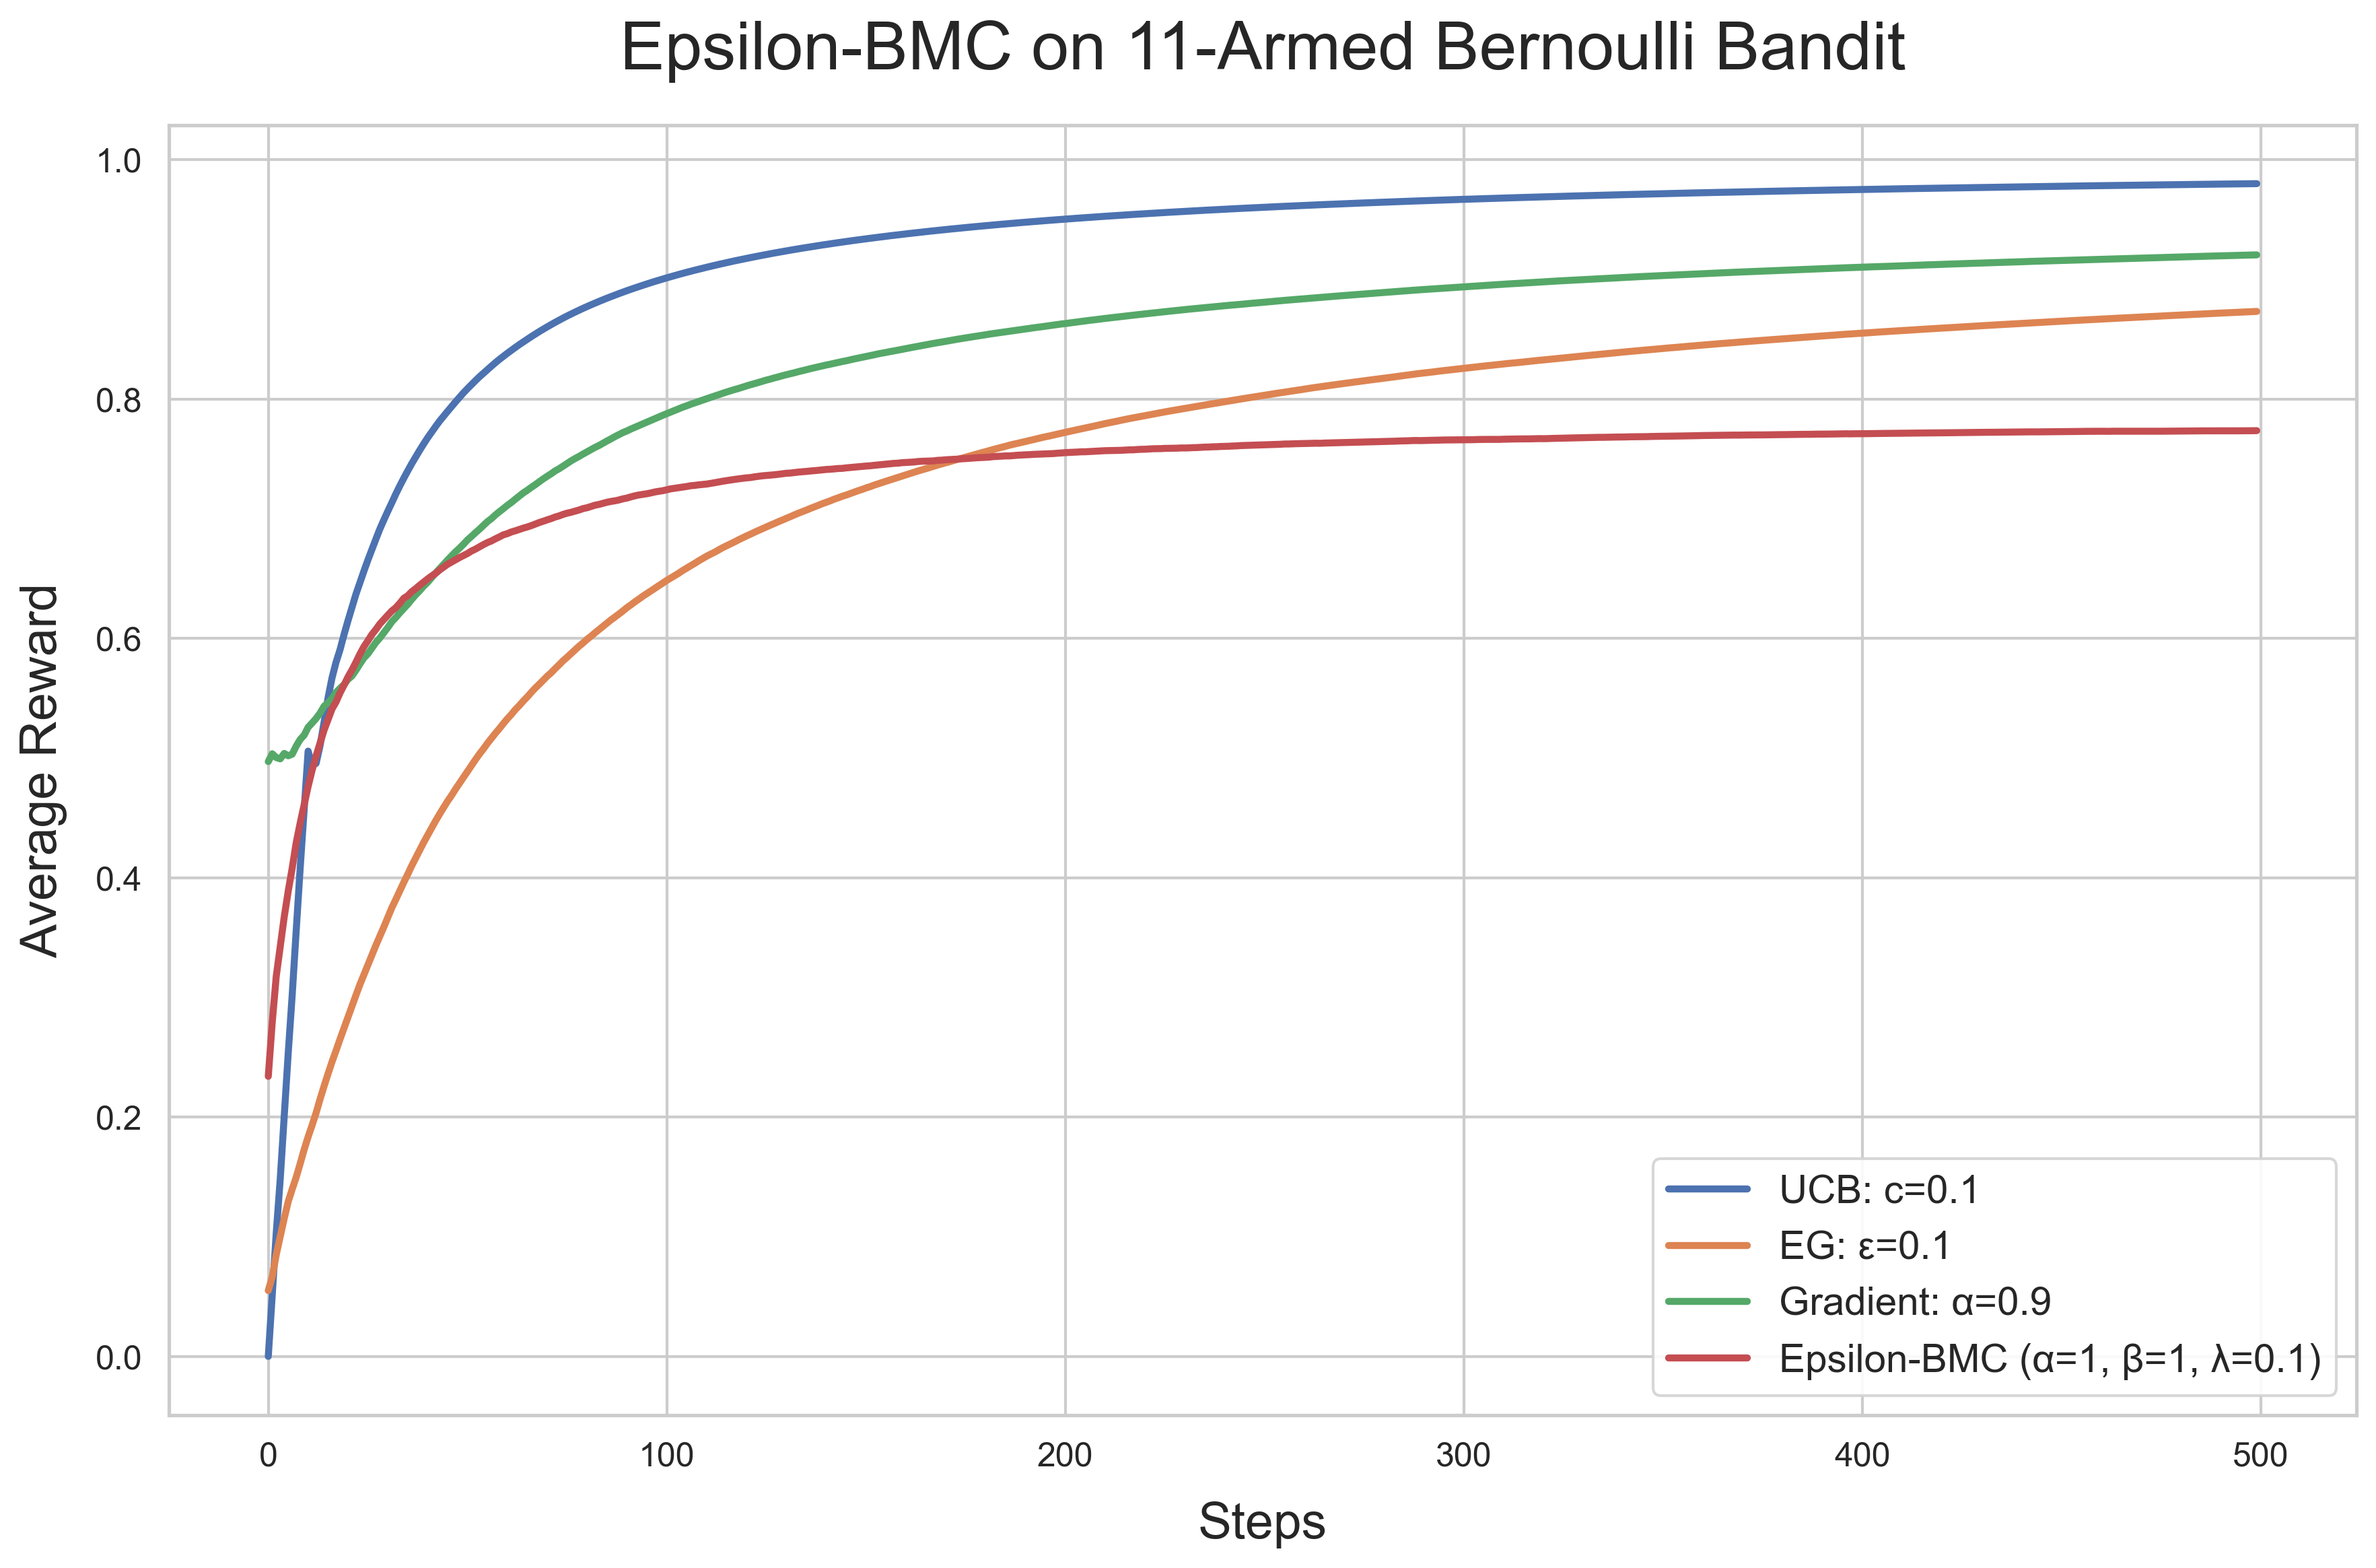
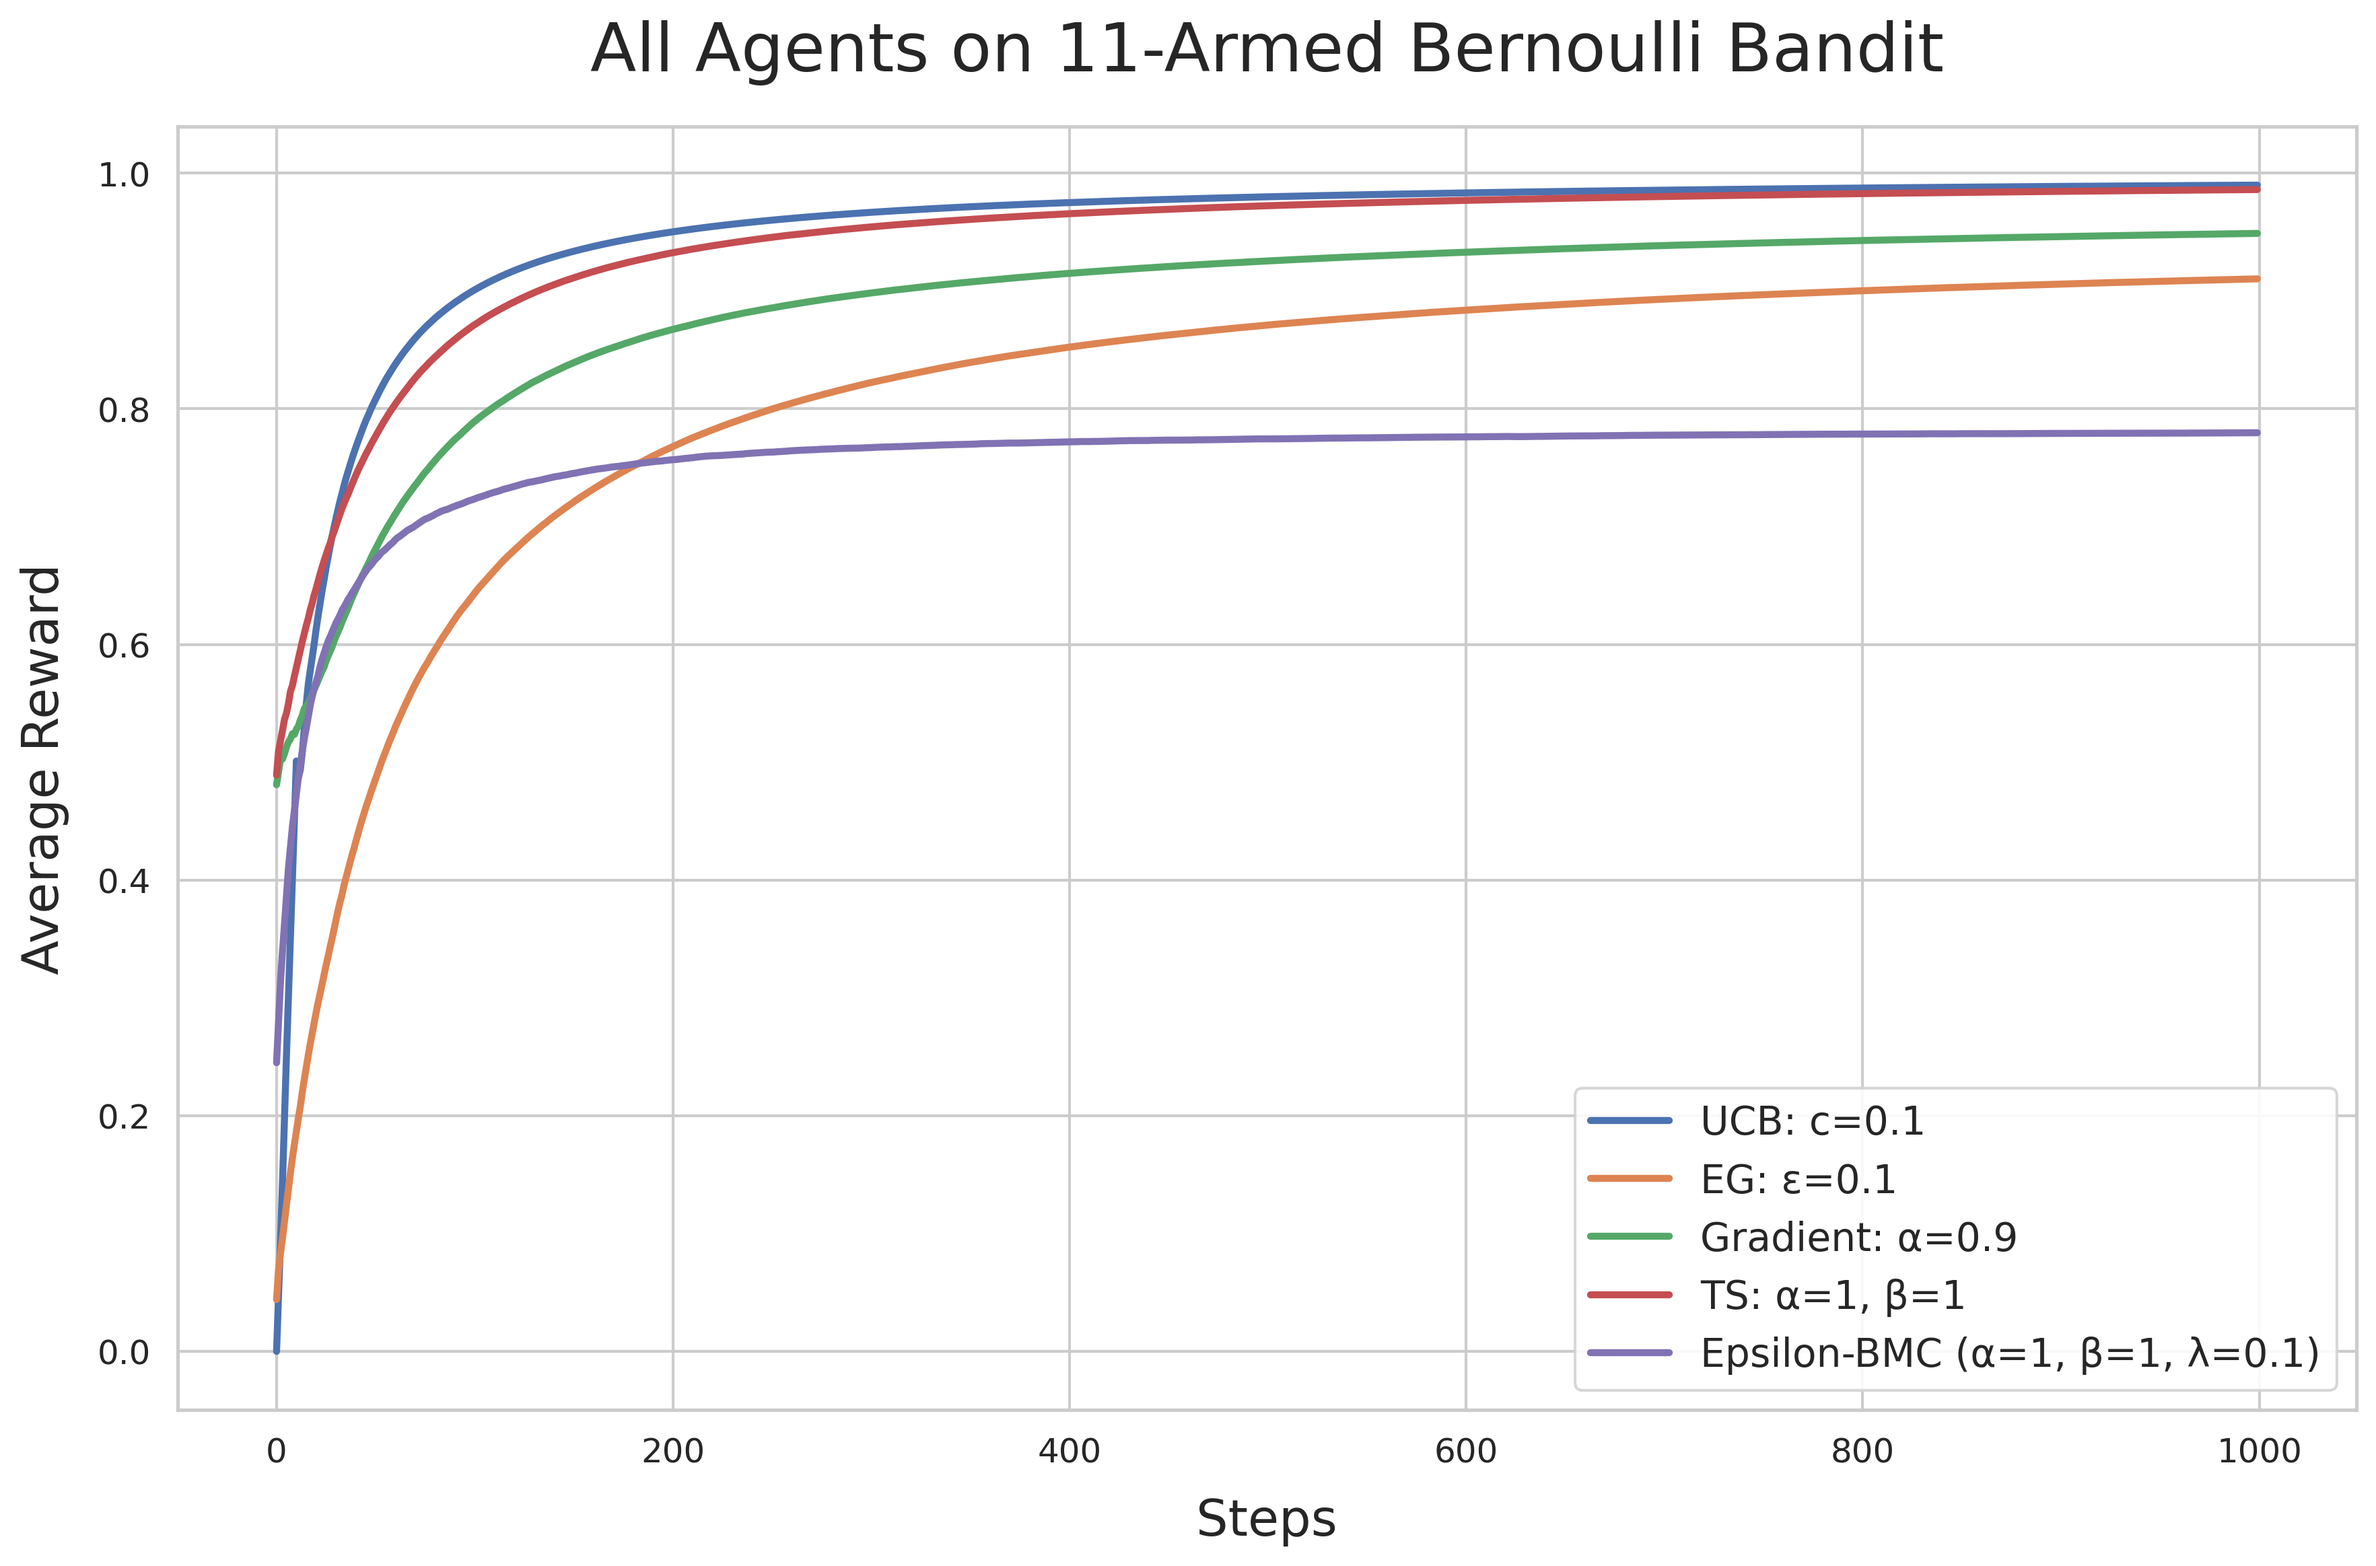
Add ThompsonSamplingAgent for bernouli bandit
- Also parallelize the experiments for much faster execution

diff --git a/rl/tasks/multi_arm_bandit/agent/ts.py b/rl/tasks/multi_arm_bandit/agent/ts.py
@@ -1,0 +1,70 @@
+import numpy as np
+from scipy.stats import beta
+
+from rl.tasks.multi_arm_bandit.agent.base import Agent
+
+
+class ThompsonSamplingAgent(Agent):
+    def __init__(self, n_arms: int, alpha: float = 1.0, beta_: float = 1.0) -> None:
+        """Initialize the Thompson Sampling Agent.
+
+        Thompson Sampling is a Bayesian algorithm that models the reward probability
+        of each arm as a Beta distribution. For Bernoulli bandits, this is
+        the conjugate prior, making updates straightforward.
+
+        Args:
+            n_arms: Number of arms.
+            alpha: Initial alpha parameter for Beta prior (default=1 for uniform prior)
+            beta_: Initial beta parameter for Beta prior (default=1 for uniform prior)
+
+        """
+        self.n_arms = n_arms
+        self.alpha_init = alpha
+        self.beta_init = beta_
+
+        # Beta distribution parameters (success, failure) for each arm
+        self.alphas = np.ones(n_arms) * alpha
+        self.betas = np.ones(n_arms) * beta_
+        self.n_pulls = np.zeros(n_arms)
+
+    def select_arm(self) -> int:
+        """Select an arm according to Thompson Sampling strategy.
+
+        Samples from each arm's Beta distribution and selects the arm
+        with the highest sampled value.
+
+        Returns:
+            The selected arm index
+
+        """
+        samples = np.array([beta.rvs(a, b) for a, b in zip(self.alphas, self.betas, strict=True)])
+        return np.argmax(samples)
+
+    def observe(self, arm: int, reward: float) -> None:
+        """Update the agent's belief based on the observed reward.
+
+        For Bernoulli rewards (0 or 1), the Beta parameters are updated:
+        - alpha += reward (successes)
+        - beta += (1-reward) (failures)
+
+        Args:
+            arm: The arm that was pulled
+            reward: The reward received (should be 0 or 1 for Bernoulli bandit)
+
+        """
+        self.n_pulls[arm] += 1
+
+        # For Bernoulli bandits, reward is 0 or 1
+        if reward == 1:
+            self.alphas[arm] += 1
+        else:
+            self.betas[arm] += 1
+
+    def reset(self) -> None:
+        """Reset the agent to its initial state."""
+        self.alphas = np.ones(self.n_arms) * self.alpha_init
+        self.betas = np.ones(self.n_arms) * self.beta_init
+        self.n_pulls = np.zeros(self.n_arms)
+
+    def copy(self) -> "ThompsonSamplingAgent":
+        return ThompsonSamplingAgent(self.n_arms, self.alpha_init, self.beta_init)

diff --git a/rl/tasks/multi_arm_bandit/experiment.py b/rl/tasks/multi_arm_bandit/experiment.py
@@ -1,3 +1,6 @@
+import concurrent.futures
+import os
+import random
 from collections import defaultdict
 
 import matplotlib.pyplot as plt
@@ -5,9 +8,21 @@ import numpy as np
 import seaborn as sns
 from tqdm import tqdm
 
-from multi_arm_bandit.agent import Agent
-from multi_arm_bandit.bandits import Bandit
-from multi_arm_bandit.simulation import Simulation
+from rl.tasks.multi_arm_bandit.agent import Agent
+from rl.tasks.multi_arm_bandit.bandits import Bandit
+from rl.tasks.multi_arm_bandit.simulation import Simulation
+
+
+def _run_single_simulation(args: tuple[str, Agent, Bandit, int]) -> tuple[str, list[float]]:
+    """Run a single simulation run with a copy of the agent and bandit."""
+    name, agent, bandit, n_steps = args
+    agent_copy = agent.copy()
+    bandit_copy = bandit.copy()
+
+    simulation = Simulation(agent_copy, bandit_copy)
+    rewards = simulation.run(n_steps)
+
+    return name, rewards
 
 
 class ExperimentManager:
@@ -40,12 +55,24 @@ class ExperimentManager:
 
     def run(self) -> None:
         results = defaultdict(list)
-        for name, agent in (p_bar := tqdm(self.agents.items())):
-            p_bar.set_description(f"Running {name}")
-            simulation = Simulation(agent, self.bandit)
 
-            for _ in tqdm(range(self.n_runs), leave=False, position=1):
-                rewards = simulation.run(self.n_steps)
+        tasks = []
+        for name, agent in self.agents.items():
+            tasks.extend([(name, agent, self.bandit, self.n_steps) for _ in range(self.n_runs)])
+
+        random.shuffle(tasks)  # insures smooth eta
+
+        max_workers = os.cpu_count()
+
+        with concurrent.futures.ProcessPoolExecutor(max_workers=max_workers) as executor:
+            futures = [executor.submit(_run_single_simulation, args) for args in tasks]
+
+            for future in tqdm(
+                concurrent.futures.as_completed(futures),
+                total=len(futures),
+                desc="Running simulations",
+            ):
+                name, rewards = future.result()
                 results[name].append(rewards)
 
         self._plot_results(results)

diff --git a/rl/tasks/multi_arm_bandit/agent/__init__.py b/rl/tasks/multi_arm_bandit/agent/__init__.py
@@ -1,7 +1,15 @@
-from multi_arm_bandit.agent.base import Agent
-from multi_arm_bandit.agent.eps_bmc import EpsilonBMCAgent
-from multi_arm_bandit.agent.eps_greedy import EpsilonGreedyAgent
-from multi_arm_bandit.agent.gradient import GradientAgent
-from multi_arm_bandit.agent.ucb import UCBAgent
+from rl.tasks.multi_arm_bandit.agent.base import Agent
+from rl.tasks.multi_arm_bandit.agent.eps_bmc import EpsilonBMCAgent
+from rl.tasks.multi_arm_bandit.agent.eps_greedy import EpsilonGreedyAgent
+from rl.tasks.multi_arm_bandit.agent.gradient import GradientAgent
+from rl.tasks.multi_arm_bandit.agent.ts import ThompsonSamplingAgent
+from rl.tasks.multi_arm_bandit.agent.ucb import UCBAgent
 
-__all__ = ["Agent", "EpsilonBMCAgent", "EpsilonGreedyAgent", "GradientAgent", "UCBAgent"]
+__all__ = [
+    "Agent",
+    "EpsilonBMCAgent",
+    "EpsilonGreedyAgent",
+    "GradientAgent",
+    "ThompsonSamplingAgent",
+    "UCBAgent",
+]

diff --git a/rl/tasks/multi_arm_bandit/bandits/bernoulli.py b/rl/tasks/multi_arm_bandit/bandits/bernoulli.py
@@ -1,7 +1,7 @@
 import numpy as np
 from scipy.stats import bernoulli
 
-from multi_arm_bandit.bandits.base import Bandit
+from rl.tasks.multi_arm_bandit.bandits.base import Bandit
 
 
 class BernoulliBandit(Bandit):
@@ -24,6 +24,9 @@ class BernoulliBandit(Bandit):
 
     def reset(self) -> None:
         pass
+
+    def copy(self) -> "BernoulliBandit":
+        return BernoulliBandit(self.n_arms, self.ps)
 
 
 class NonStationaryBernoulliBandit(BernoulliBandit):
@@ -71,3 +74,6 @@ class NonStationaryBernoulliBandit(BernoulliBandit):
     def reset(self) -> None:
         self.ps = self.original_ps.copy()
         self.t = 0
+
+    def copy(self) -> "NonStationaryBernoulliBandit":
+        return NonStationaryBernoulliBandit(self.n_arms, self.ps, self.step_std, self.walk_every)

diff --git a/rl/tasks/multi_arm_bandit/agent/eps_bmc.py b/rl/tasks/multi_arm_bandit/agent/eps_bmc.py
@@ -1,7 +1,7 @@
 import numpy as np
 from scipy import stats
 
-from multi_arm_bandit.agent.base import Agent
+from rl.tasks.multi_arm_bandit.agent.base import Agent
 
 
 class EpsilonBMCAgent(Agent):
@@ -132,3 +132,6 @@ class EpsilonBMCAgent(Agent):
         self.mean_reward = np.zeros(self.num_arms)
         self.var_reward = np.ones(self.num_arms)
         self.n_pulls = np.zeros(self.num_arms)
+
+    def copy(self) -> "EpsilonBMCAgent":
+        return EpsilonBMCAgent(**self.init_args)

diff --git a/rl/tasks/multi_arm_bandit/agent/eps_greedy.py b/rl/tasks/multi_arm_bandit/agent/eps_greedy.py
@@ -2,7 +2,7 @@ import random
 
 import numpy as np
 
-from multi_arm_bandit.agent.base import Agent
+from rl.tasks.multi_arm_bandit.agent.base import Agent
 
 
 class EpsilonGreedyAgent(Agent):
@@ -36,3 +36,6 @@ class EpsilonGreedyAgent(Agent):
         self.q_values = [0] * self.n_arms
         self.n_pulls = [0] * self.n_arms
         self.n_actions = 0
+
+    def copy(self) -> "EpsilonGreedyAgent":
+        return EpsilonGreedyAgent(self.n_arms, self.epsilon)

diff --git a/rl/tasks/multi_arm_bandit/agent/gradient.py b/rl/tasks/multi_arm_bandit/agent/gradient.py
@@ -1,6 +1,6 @@
 import numpy as np
 
-from multi_arm_bandit.agent import Agent
+from rl.tasks.multi_arm_bandit.agent.base import Agent
 
 
 class GradientAgent(Agent):
@@ -49,3 +49,6 @@ class GradientAgent(Agent):
         self.total_steps = 0
         self.avg_reward = 0
         self.n_pulls = [0] * self.n_arms
+
+    def copy(self) -> "GradientAgent":
+        return GradientAgent(self.n_arms, self.alpha)

diff --git a/rl/tasks/multi_arm_bandit/agent/ucb.py b/rl/tasks/multi_arm_bandit/agent/ucb.py
@@ -1,6 +1,6 @@
 import numpy as np
 
-from multi_arm_bandit.agent.base import Agent
+from rl.tasks.multi_arm_bandit.agent.base import Agent
 
 
 class UCBAgent(Agent):
@@ -34,3 +34,6 @@ class UCBAgent(Agent):
         self.q_values = [0] * self.n_arms
         self.n_pulls = [0] * self.n_arms
         self.n_actions = 0
+
+    def copy(self) -> "UCBAgent":
+        return UCBAgent(self.n_arms, self.c)

diff --git a/rl/tasks/multi_arm_bandit/agent/random.py b/rl/tasks/multi_arm_bandit/agent/random.py
@@ -1,6 +1,6 @@
 import random
 
-from multi_arm_bandit.agent.base import Agent
+from rl.tasks.multi_arm_bandit.agent.base import Agent
 
 
 class RandomAgent(Agent):
@@ -21,3 +21,6 @@ class RandomAgent(Agent):
 
     def reset(self) -> None:
         pass
+
+    def copy(self) -> "RandomAgent":
+        return RandomAgent(self.n_arms)

diff --git a/rl/tasks/multi_arm_bandit/bandits/__init__.py b/rl/tasks/multi_arm_bandit/bandits/__init__.py
@@ -1,5 +1,5 @@
-from multi_arm_bandit.bandits.base import Bandit
-from multi_arm_bandit.bandits.bernoulli import (
+from rl.tasks.multi_arm_bandit.bandits.base import Bandit
+from rl.tasks.multi_arm_bandit.bandits.bernoulli import (
     BernoulliBandit,
     NonStationaryBernoulliBandit,
 )

diff --git a/rl/tasks/multi_arm_bandit/run.py b/rl/tasks/multi_arm_bandit/run.py
@@ -1,6 +1,6 @@
 from jsonargparse import CLI
 
-from multi_arm_bandit.experiment import ExperimentManager
+from rl.tasks.multi_arm_bandit.experiment import ExperimentManager
 
 if __name__ == "__main__":
     CLI(ExperimentManager, as_positional=False)

diff --git a/rl/tasks/multi_arm_bandit/simulation.py b/rl/tasks/multi_arm_bandit/simulation.py
@@ -1,5 +1,5 @@
-from multi_arm_bandit.agent.base import Agent
-from multi_arm_bandit.bandits.base import Bandit
+from rl.tasks.multi_arm_bandit.agent.base import Agent
+from rl.tasks.multi_arm_bandit.bandits.base import Bandit
 
 
 class Simulation:
